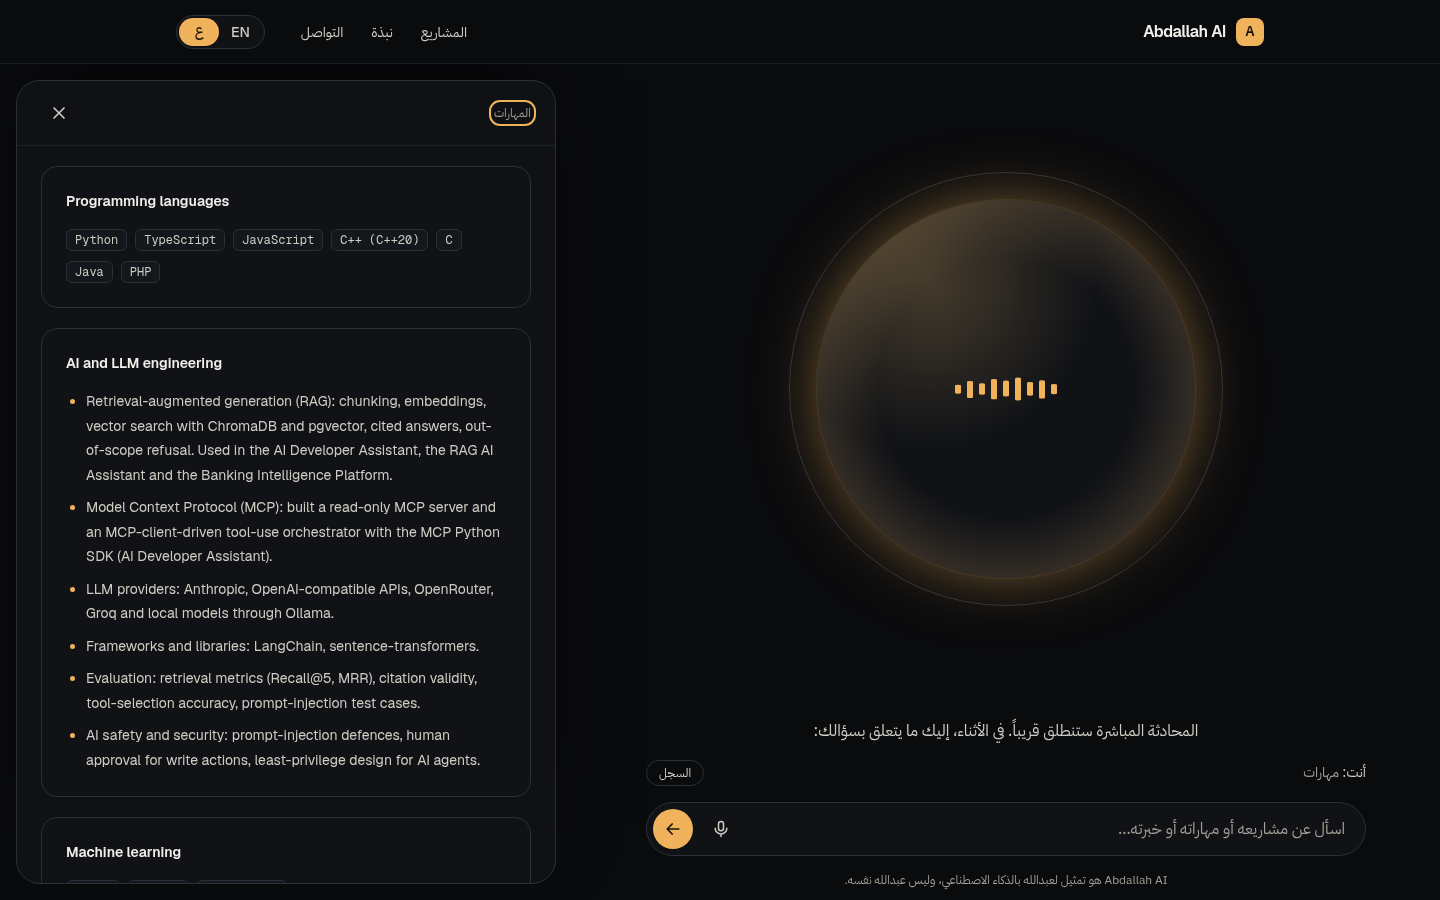
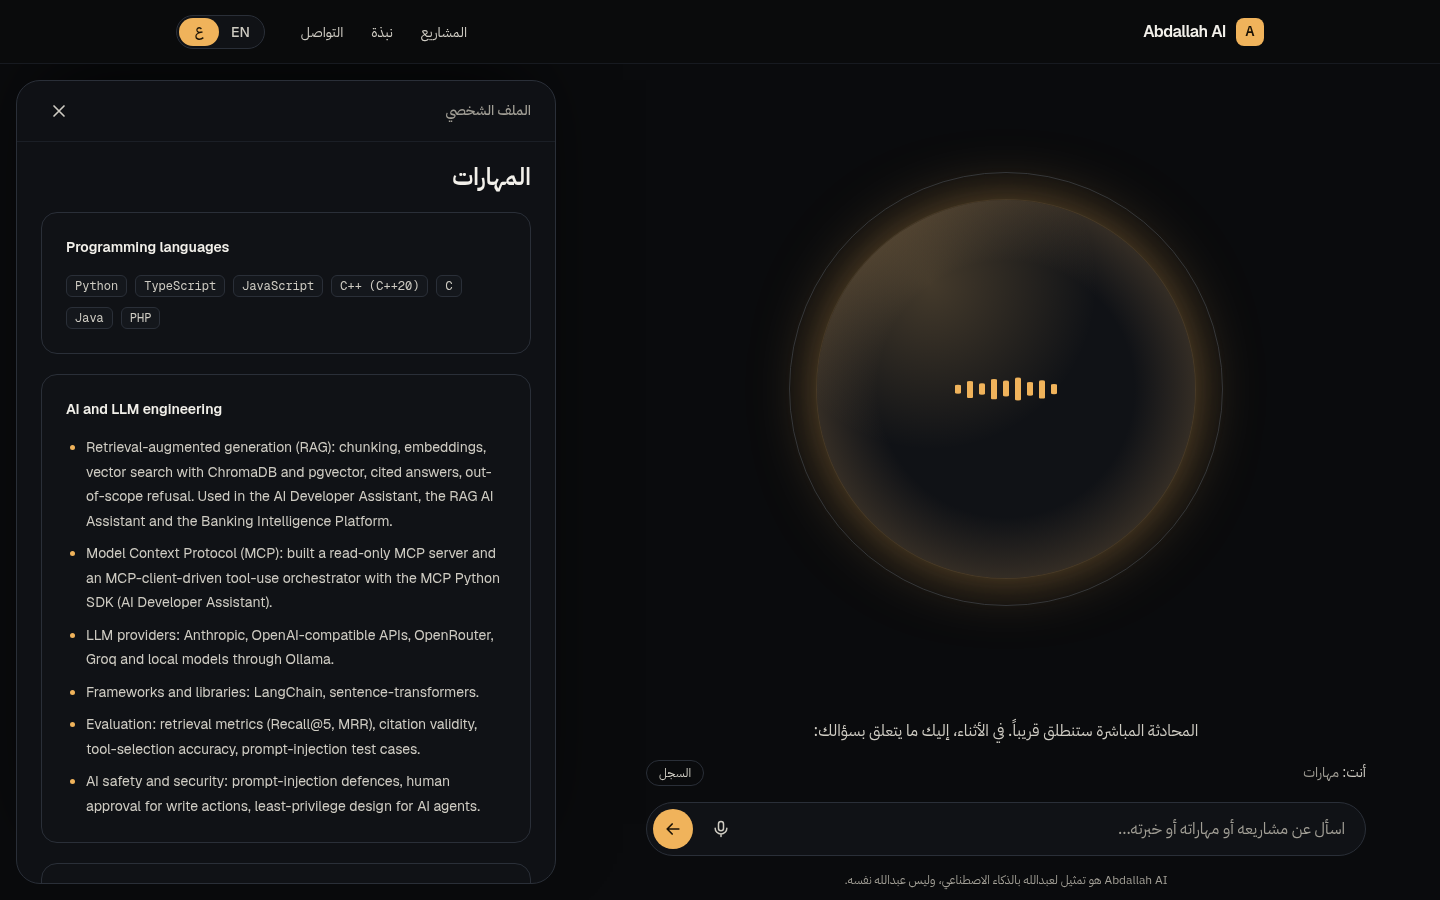
fix(web): card focus target, Arabic labels, mobile chips

diff --git a/frontend/components/conversation/SuggestionChips.tsx b/frontend/components/conversation/SuggestionChips.tsx
@@ -1,22 +1,68 @@
+"use client";
+
+import { useEffect, useRef, useState } from "react";
+
 type Props = { label: string; suggestions: string[]; onPick: (text: string) => void };
 
+/** Distance from each edge (in px) before a fade is shown. */
+const EDGE_TOLERANCE = 4;
+
+/**
+ * Mobile: one horizontally scrolling row with a fade on each side that still has hidden
+ * chips (start/end, so it works in RTL too). From `sm` up the chips wrap and never scroll.
+ */
 export function SuggestionChips({ label, suggestions, onPick }: Props) {
+  const listRef = useRef<HTMLUListElement>(null);
+  const [edges, setEdges] = useState({ start: false, end: false });
+
+  useEffect(() => {
+    const list = listRef.current;
+    if (!list) return;
+    function update() {
+      if (!list) return;
+      // scrollLeft is negative in RTL (Chromium/Firefox), so compare magnitudes.
+      const position = Math.abs(list.scrollLeft);
+      const max = list.scrollWidth - list.clientWidth;
+      setEdges({ start: position > EDGE_TOLERANCE, end: position < max - EDGE_TOLERANCE });
+    }
+    const observer = new ResizeObserver(update);
+    observer.observe(list);
+    list.addEventListener("scroll", update, { passive: true });
+    return () => {
+      observer.disconnect();
+      list.removeEventListener("scroll", update);
+    };
+  }, []);
+
+  const fade = "pointer-events-none absolute inset-y-0 w-12 from-ink-950 to-transparent transition-opacity sm:hidden";
+
   return (
-    <ul
-      aria-label={label}
-      className="-mx-4 flex gap-2 overflow-x-auto px-4 pb-1 [scrollbar-width:none] sm:mx-0 sm:flex-wrap sm:justify-center sm:overflow-visible sm:px-0"
-    >
-      {suggestions.map((suggestion) => (
-        <li key={suggestion} className="shrink-0">
-          <button
-            type="button"
-            onClick={() => onPick(suggestion)}
-            className="whitespace-nowrap rounded-full border border-ink-700 bg-ink-900/80 px-3.5 py-1.5 text-sm text-mist-200 transition-colors hover:border-accent/60 hover:text-mist-50"
-          >
-            {suggestion}
-          </button>
-        </li>
-      ))}
-    </ul>
+    <div className="relative -mx-4 sm:mx-0">
+      <ul
+        ref={listRef}
+        aria-label={label}
+        className="flex gap-2 overflow-x-auto px-4 pb-1 [scrollbar-width:none] sm:flex-wrap sm:justify-center sm:overflow-visible sm:px-0"
+      >
+        {suggestions.map((suggestion) => (
+          <li key={suggestion} className="shrink-0">
+            <button
+              type="button"
+              onClick={() => onPick(suggestion)}
+              className="whitespace-nowrap rounded-full border border-ink-700 bg-ink-900/80 px-3.5 py-1.5 text-sm text-mist-200 transition-colors hover:border-accent/60 hover:text-mist-50"
+            >
+              {suggestion}
+            </button>
+          </li>
+        ))}
+      </ul>
+      <span
+        aria-hidden="true"
+        className={`${fade} start-0 bg-linear-to-r rtl:bg-linear-to-l ${edges.start ? "opacity-100" : "opacity-0"}`}
+      />
+      <span
+        aria-hidden="true"
+        className={`${fade} end-0 bg-linear-to-l rtl:bg-linear-to-r ${edges.end ? "opacity-100" : "opacity-0"}`}
+      />
+    </div>
   );
 }

diff --git a/frontend/components/conversation/CardPanel.tsx b/frontend/components/conversation/CardPanel.tsx
@@ -1,7 +1,12 @@
 import type { ReactNode, Ref } from "react";
 
 type Props = {
-  title: string;
+  /** Small decorative label (hidden from assistive tech; the heading carries the meaning). */
+  eyebrow: string;
+  /** The card's real heading: the project title or the card's section title. */
+  heading: string;
+  /** Set to "en" when the heading is knowledge-base content (e.g. a project title). */
+  headingLang?: "en";
   closeLabel: string;
   onClose: () => void;
   headingRef: Ref<HTMLHeadingElement>;
@@ -10,24 +15,20 @@ type Props = {
 
 /**
  * Desktop: a panel on the end side of the stage. Mobile: a bottom sheet over the lower half.
- * Its content scrolls internally so the page itself never scrolls.
+ * Its content scrolls internally so the page itself never scrolls. Focus is moved to the
+ * heading when the card opens.
  */
-export function CardPanel({ title, closeLabel, onClose, headingRef, children }: Props) {
+export function CardPanel({ eyebrow, heading, headingLang, closeLabel, onClose, headingRef, children }: Props) {
   return (
     <aside
-      aria-labelledby="card-title"
+      aria-labelledby="card-heading"
       className="card-panel fixed inset-x-0 bottom-0 z-30 flex h-[58dvh] flex-col rounded-t-3xl border-t border-ink-700 bg-ink-900/95 shadow-[0_-30px_80px_-30px_rgba(0,0,0,0.9)] backdrop-blur-md lg:absolute lg:inset-x-auto lg:inset-y-4 lg:end-4 lg:h-auto lg:w-[var(--panel-width)] lg:rounded-3xl lg:border"
     >
       <div aria-hidden="true" className="mx-auto mt-2.5 h-1 w-10 rounded-full bg-ink-600 lg:hidden" />
-      <header className="flex items-center justify-between gap-4 border-b border-ink-800 px-5 py-3.5 sm:px-6">
-        <h2
-          id="card-title"
-          ref={headingRef}
-          tabIndex={-1}
-          className="font-mono text-xs uppercase tracking-[0.2em] text-mist-400 focus-visible:outline-none"
-        >
-          {title}
-        </h2>
+      <header className="flex items-center justify-between gap-4 border-b border-ink-800 px-5 py-3 sm:px-6">
+        <p aria-hidden="true" className="eyebrow text-mist-400">
+          {eyebrow}
+        </p>
         <button
           type="button"
           onClick={onClose}
@@ -40,6 +41,16 @@ export function CardPanel({ title, closeLabel, onClose, headingRef, children }: 
         </button>
       </header>
       <div className="min-h-0 flex-1 overflow-y-auto px-5 py-5 pb-[max(1.25rem,env(safe-area-inset-bottom))] sm:px-6">
+        <h2
+          id="card-heading"
+          ref={headingRef}
+          tabIndex={-1}
+          lang={headingLang}
+          dir={headingLang ? "ltr" : undefined}
+          className="mb-5 text-2xl font-semibold leading-tight tracking-tight text-mist-50"
+        >
+          {heading}
+        </h2>
         {children}
       </div>
     </aside>

diff --git a/frontend/components/profile/AboutSection.tsx b/frontend/components/profile/AboutSection.tsx
@@ -24,7 +24,7 @@ export function AboutSection({ profile, t }: { profile: Profile; t: Dictionary }
             <dl className="divide-y divide-ink-800 rounded-2xl border border-ink-700 bg-ink-900">
               {facts.map((fact) => (
                 <div key={fact.label} className="flex flex-col gap-1 px-5 py-4">
-                  <dt className="font-mono text-xs uppercase tracking-[0.18em] text-mist-400">{fact.label}</dt>
+                  <dt className="eyebrow text-mist-400">{fact.label}</dt>
                   <EnglishContent as="dd" className="text-mist-50">
                     {fact.value}
                   </EnglishContent>
@@ -34,7 +34,7 @@ export function AboutSection({ profile, t }: { profile: Profile; t: Dictionary }
           )}
           {profile.ways_of_working && (
             <div>
-              <h3 className="mb-2 font-mono text-xs uppercase tracking-[0.18em] text-mist-400">
+              <h3 className="mb-2 eyebrow text-mist-400">
                 {t.profile.waysOfWorking}
               </h3>
               <EnglishContent as="p" className="text-sm leading-relaxed text-mist-200">
@@ -66,7 +66,7 @@ export function AboutSection({ profile, t }: { profile: Profile; t: Dictionary }
           <EnglishContent className="grid gap-6 sm:grid-cols-2">
             {profile.career_direction.map((item) => (
               <div key={item.heading} className="rounded-2xl border border-ink-700 bg-ink-900 p-6">
-                <h3 className="font-mono text-xs uppercase tracking-[0.18em] text-accent">{item.heading}</h3>
+                <h3 className="eyebrow text-accent">{item.heading}</h3>
                 <Markdown className="mt-3 text-sm">{item.body_markdown}</Markdown>
               </div>
             ))}

diff --git a/frontend/components/conversation/cards/ProjectCard.tsx b/frontend/components/conversation/cards/ProjectCard.tsx
@@ -10,15 +10,14 @@ export function ProjectCard({ project, t }: { project: ProjectSummary; t: Dictio
   return (
     <article className="space-y-5">
       <StatusBadge status={project.project_status} t={t} />
-      <EnglishContent>
-        <h3 className="text-2xl font-semibold leading-tight tracking-tight text-mist-50">{project.title}</h3>
-        {project.one_line_summary && (
-          <p className="mt-3 leading-relaxed text-mist-200">{project.one_line_summary}</p>
-        )}
-      </EnglishContent>
+      {project.one_line_summary && (
+        <EnglishContent as="p" className="leading-relaxed text-mist-200">
+          {project.one_line_summary}
+        </EnglishContent>
+      )}
       {project.technologies.length > 0 && (
         <div>
-          <h4 className="mb-2 font-mono text-xs uppercase tracking-[0.18em] text-mist-400">{t.projects.technologies}</h4>
+          <h3 className="eyebrow mb-2 text-mist-400">{t.projects.technologies}</h3>
           <TechChips items={project.technologies} limit={6} moreLabel={t.projects.moreTech} />
         </div>
       )}

diff --git a/frontend/components/conversation/ConversationHome.tsx b/frontend/components/conversation/ConversationHome.tsx
@@ -71,6 +71,8 @@ export function ConversationHome({ t, locale, profile, projects, contact, portra
   const showChips = !lastUser || lastAssistant?.role !== "assistant" || lastAssistant.kind === "noMatch";
   const subtitle = lastAssistant?.role === "assistant" ? lastAssistant : null;
   const cardOpen = card !== null;
+  const cardProject =
+    card?.type === "show_project" ? projects?.find((project) => project.id === card.project_id) : undefined;
   // On mobile the card is a bottom sheet; everything except the avatar sits underneath it.
   const underSheet = cardOpen ? "max-lg:hidden" : "";
 
@@ -129,7 +131,9 @@ export function ConversationHome({ t, locale, profile, projects, contact, portra
 
       {card && (
         <CardPanel
-          title={t.cards.titles[card.type]}
+          eyebrow={t.cards.eyebrows[card.type]}
+          heading={cardProject?.title ?? t.cards.titles[card.type]}
+          headingLang={cardProject ? "en" : undefined}
           closeLabel={t.cards.close}
           onClose={closeCard}
           headingRef={headingRef}

diff --git a/frontend/app/globals.css b/frontend/app/globals.css
@@ -65,10 +65,32 @@ body {
 }
 
 /* One consistent, highly visible focus ring for every interactive element. */
-:where(a, button, summary, [tabindex]):focus-visible {
+:where(a, button, summary, [tabindex]:not([tabindex="-1"])):focus-visible {
   outline: 2px solid var(--color-accent);
   outline-offset: 3px;
   border-radius: 6px;
+}
+/* Programmatic focus targets (e.g. a card heading) are not controls: no ring. */
+[tabindex="-1"]:focus {
+  outline: none;
+}
+
+/* Small label above a heading. Latin: mono, uppercase, tracked. Arabic is cursive, so it
+   uses the Arabic face at normal tracking and a slightly larger size instead. */
+.eyebrow {
+  font-family: var(--font-mono);
+  font-size: 0.75rem;
+  line-height: 1rem;
+  text-transform: uppercase;
+  letter-spacing: 0.18em;
+}
+.eyebrow:lang(ar) {
+  font-family: var(--font-arabic);
+  font-size: 0.875rem;
+  line-height: 1.25rem;
+  font-weight: 500;
+  text-transform: none;
+  letter-spacing: 0;
 }
 
 /* Soft accent glow and a faint grid behind the hero. */

diff --git a/frontend/components/projects/ProjectSidebar.tsx b/frontend/components/projects/ProjectSidebar.tsx
@@ -17,7 +17,7 @@ export function ProjectSidebar({ project, statusNote, t, locale }: Props) {
   return (
     <aside className="space-y-8 rounded-2xl border border-ink-700 bg-ink-900 p-6 lg:sticky lg:top-24">
       <div>
-        <h2 className="mb-3 font-mono text-xs uppercase tracking-[0.2em] text-mist-400">{t.projects.status}</h2>
+        <h2 className="mb-3 eyebrow text-mist-400">{t.projects.status}</h2>
         <StatusBadge status={project.project_status} t={t} />
         {statusNote && (
           <EnglishContent className="mt-3 text-sm">
@@ -28,7 +28,7 @@ export function ProjectSidebar({ project, statusNote, t, locale }: Props) {
 
       {project.technologies.length > 0 && (
         <div>
-          <h2 className="mb-3 font-mono text-xs uppercase tracking-[0.2em] text-mist-400">
+          <h2 className="mb-3 eyebrow text-mist-400">
             {t.projects.technologies}
           </h2>
           <TechChips items={project.technologies} />

diff --git a/frontend/lib/i18n/ar.ts b/frontend/lib/i18n/ar.ts
@@ -56,13 +56,21 @@ export const ar: Dictionary = {
   },
   cards: {
     close: "إغلاق",
+    eyebrows: {
+      show_project: "مشروع",
+      show_projects: "معرض الأعمال",
+      show_skills: "الملف الشخصي",
+      show_experience: "الملف الشخصي",
+      show_education: "الملف الشخصي",
+      show_contact: "التواصل",
+    },
     titles: {
       show_project: "مشروع",
       show_projects: "جميع المشاريع",
       show_skills: "المهارات",
       show_experience: "الخبرة",
       show_education: "التعليم",
-      show_contact: "التواصل",
+      show_contact: "طرق التواصل",
     },
     openProject: "فتح المشروع",
     allProjectsLink: "تصفح جميع المشاريع",

diff --git a/frontend/lib/i18n/en.ts b/frontend/lib/i18n/en.ts
@@ -54,13 +54,23 @@ export const en = {
   },
   cards: {
     close: "Close",
+    // Decorative label above the card; the card's real heading comes from `titles`
+    // (or the project title for a project card).
+    eyebrows: {
+      show_project: "Project",
+      show_projects: "Portfolio",
+      show_skills: "Profile",
+      show_experience: "Profile",
+      show_education: "Profile",
+      show_contact: "Contact",
+    },
     titles: {
       show_project: "Project",
       show_projects: "All projects",
       show_skills: "Skills",
       show_experience: "Experience",
       show_education: "Education",
-      show_contact: "Contact",
+      show_contact: "Get in touch",
     },
     openProject: "Open project",
     allProjectsLink: "Browse all projects",

diff --git a/frontend/app/(pages)/projects/[id]/page.tsx b/frontend/app/(pages)/projects/[id]/page.tsx
@@ -65,7 +65,7 @@ export default async function ProjectPage({ params }: PageProps<"/projects/[id]"
 
       <header className="lab-backdrop -mx-4 mt-8 rounded-3xl px-4 py-10 sm:mx-0 sm:border sm:border-ink-800 sm:px-10">
         <EnglishContent>
-          <p className="font-mono text-xs uppercase tracking-[0.25em] text-accent">{project.id}</p>
+          <p className="eyebrow text-accent">{project.id}</p>
           <h1 className="mt-4 max-w-4xl text-4xl font-semibold leading-tight tracking-tight text-mist-50 sm:text-5xl">
             {project.title}
           </h1>

diff --git a/frontend/components/conversation/Transcript.tsx b/frontend/components/conversation/Transcript.tsx
@@ -39,7 +39,7 @@ export function Transcript({ t, messages, lastUser, assistantText, open, onToggl
           aria-label={t.conversation.historyTitle}
           className="absolute inset-x-0 bottom-full z-20 mb-3 max-h-[45dvh] overflow-y-auto rounded-2xl border border-ink-700 bg-ink-900 p-4 shadow-2xl"
         >
-          <h2 className="mb-3 font-mono text-xs uppercase tracking-[0.18em] text-mist-400">
+          <h2 className="mb-3 eyebrow text-mist-400">
             {t.conversation.historyTitle}
           </h2>
           <ol className="space-y-3 text-sm">

diff --git a/frontend/components/profile/Timeline.tsx b/frontend/components/profile/Timeline.tsx
@@ -16,7 +16,7 @@ export function Timeline({ title, items }: { title?: string; items: ContentSecti
               aria-hidden="true"
               className="absolute -start-[29px] top-1.5 size-2.5 rounded-full border-2 border-ink-950 bg-accent"
             />
-            <ItemHeading className="font-mono text-xs uppercase tracking-[0.18em] text-accent">
+            <ItemHeading className="eyebrow text-accent">
               {item.heading}
             </ItemHeading>
             <Markdown className="mt-2 text-sm sm:text-base">{item.body_markdown}</Markdown>
